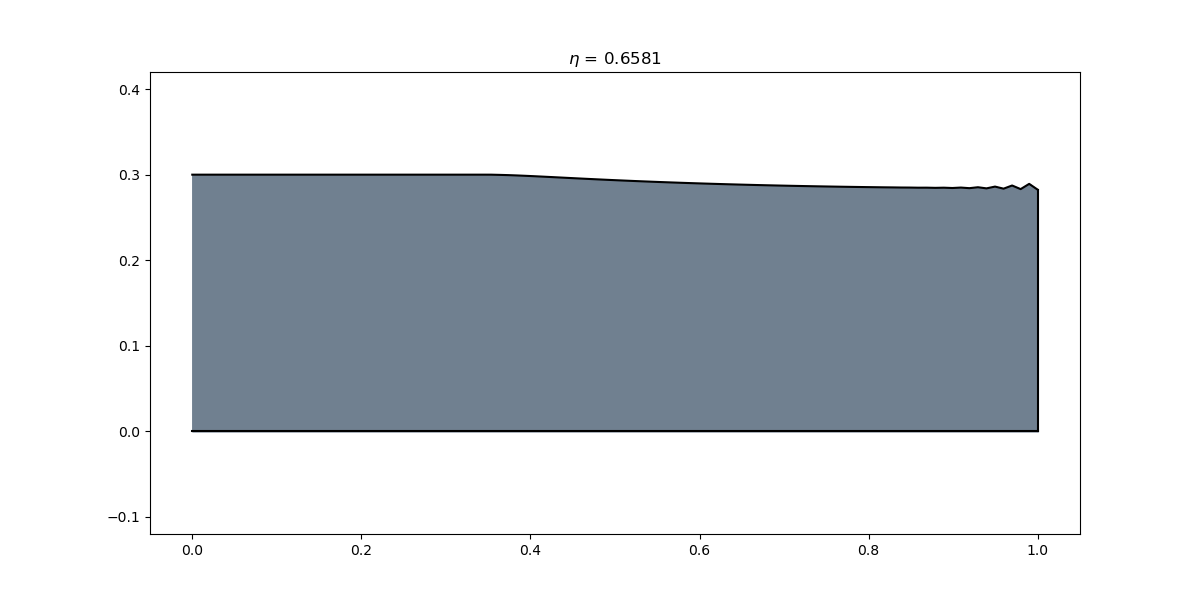
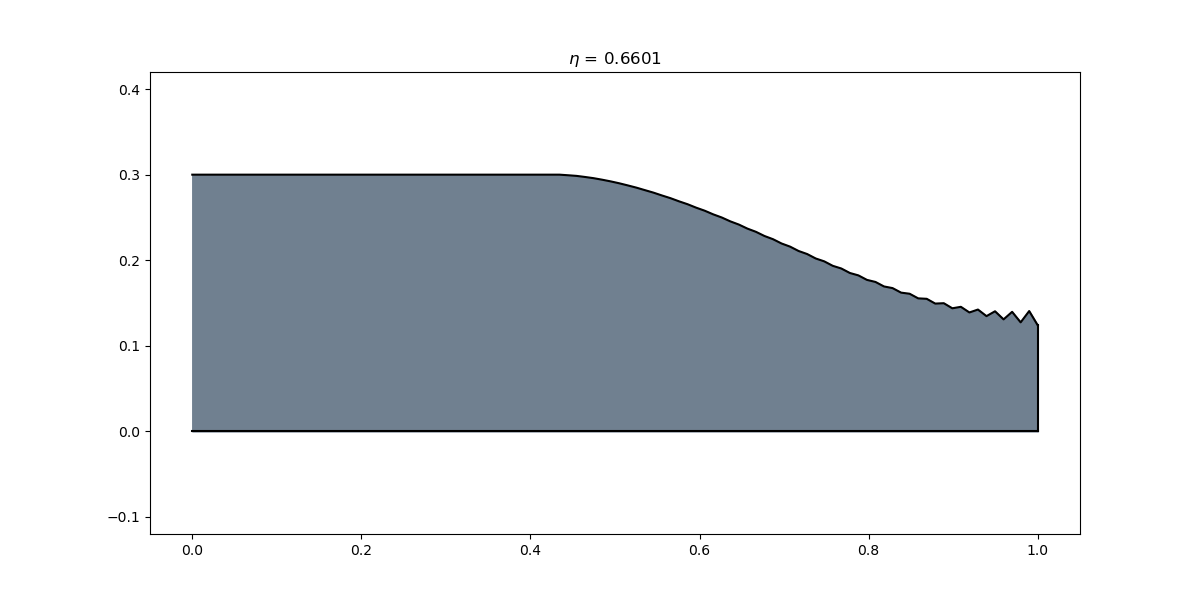
New discretization strategy working correctly and implemented for a full optimization process

Changed region(s): [[0.4933, 0.3, 0.8633, 0.54], [0.4317, 0.27, 0.4933, 0.3], [0.5242, 0.09, 0.555, 0.12]]

diff --git a/Project1_FinOptimization/.ipynb_checkpoints/project1_source-checkpoint.py b/Project1_FinOptimization/.ipynb_checkpoints/project1_source-checkpoint.py
@@ -13,7 +13,7 @@ B0 = 0.3 # thickness of the fin above reference axis
 B1 = 0 # thickness of the fin below reference axis
 
 # Simulation params
-N_max = 200
+N_max = 20000
 save_freq = max(N_max//50,1) # frequency for saving profiles for display
 
 nodes = 100
@@ -209,6 +209,7 @@ step = delta_t # Conceptually exactly the same. Step may be changed during optim
 gradient = np.zeros(nodes)
 grad_prefactor = 1e-2 # Constant prefactor to change step size. Value determined by trial and error
 grad_step = 10*delta_t # Maximum step size. Replaces prefactor as step size moderator
+grad_step = 50*delta_t
 # grad_step = 4e-1
 
 current_profile = straight_profile 
@@ -269,11 +270,12 @@ print( "Number of iterations: {}. Profiles tested: {}. Efficency values: {}.".fo
 
 end_time = time.time()
 print('Simulation time = ' + str(end_time-start_time) )
+print('Time per step = ' + str( (end_time-start_time)/N_max ) )
 
 # Plotting results
 
 
-plot_profile(current_profile,'last_iteration.png',eta)
+plot_profile(current_profile,'last_iteration.png',eta,False)
 print("Last efficiency: {:.4f}".format(eta))
 print(current_profile)
 

diff --git a/Project1_FinOptimization/project1_source.py b/Project1_FinOptimization/project1_source.py
@@ -13,7 +13,7 @@ B0 = 0.3 # thickness of the fin above reference axis
 B1 = 0 # thickness of the fin below reference axis
 
 # Simulation params
-N_max = 200
+N_max = 20000
 save_freq = max(N_max//50,1) # frequency for saving profiles for display
 
 nodes = 100
@@ -209,6 +209,7 @@ step = delta_t # Conceptually exactly the same. Step may be changed during optim
 gradient = np.zeros(nodes)
 grad_prefactor = 1e-2 # Constant prefactor to change step size. Value determined by trial and error
 grad_step = 10*delta_t # Maximum step size. Replaces prefactor as step size moderator
+grad_step = 50*delta_t
 # grad_step = 4e-1
 
 current_profile = straight_profile 
@@ -269,11 +270,12 @@ print( "Number of iterations: {}. Profiles tested: {}. Efficency values: {}.".fo
 
 end_time = time.time()
 print('Simulation time = ' + str(end_time-start_time) )
+print('Time per step = ' + str( (end_time-start_time)/N_max ) )
 
 # Plotting results
 
 
-plot_profile(current_profile,'last_iteration.png',eta)
+plot_profile(current_profile,'last_iteration.png',eta,False)
 print("Last efficiency: {:.4f}".format(eta))
 print(current_profile)
 
